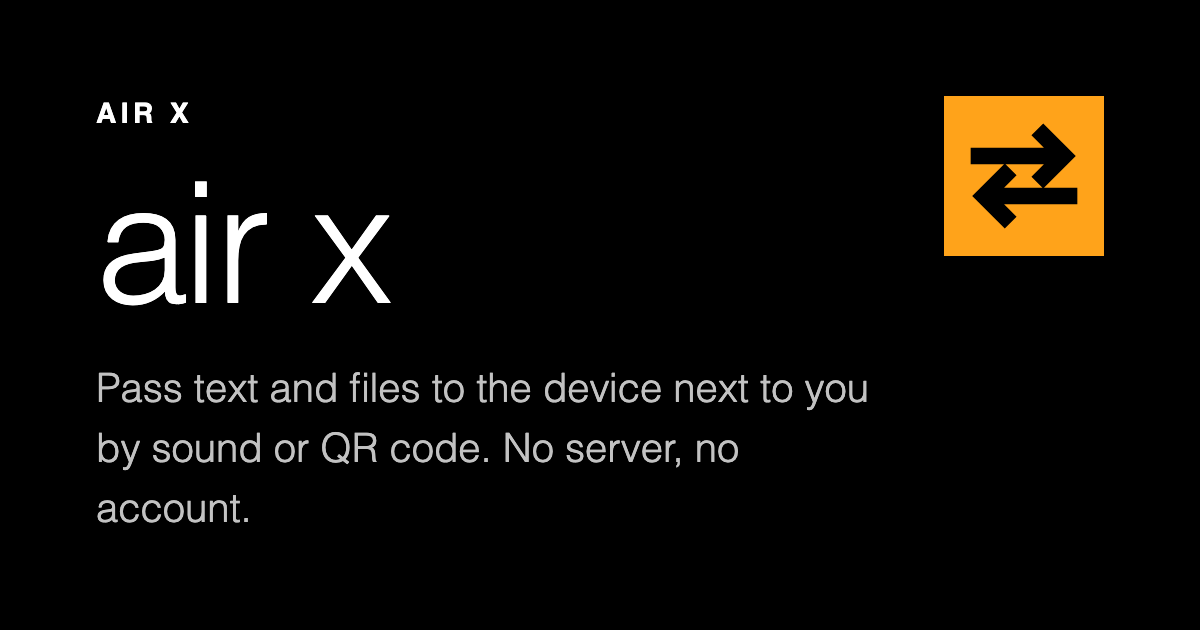
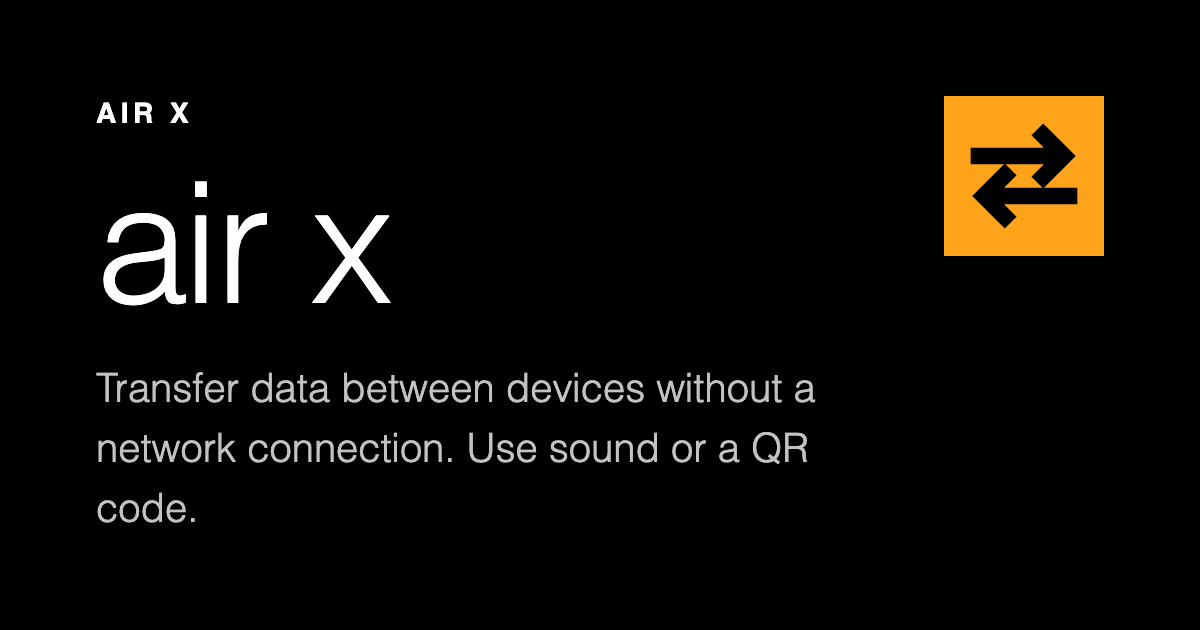
Make the copy consistent: sentence case, no all caps, plainer progress words

Changed region(s): [[0.0617, 0.573, 0.74, 0.754], [0.0925, 0.7841, 0.2158, 0.8444]]

diff --git a/static/diag.html b/static/diag.html
@@ -6,7 +6,7 @@
     <meta name="color-scheme" content="dark" />
     <title>Air X</title>
     <meta name="description"
-      content="Pass text and files to the device next to you by sound or QR code. No server, no account, no network." />
+      content="Transfer data between devices without a network connection" />
     <meta name="theme-color" content="#000000" />
     <link rel="canonical" href="https://jakeave.github.io/air-x/" />
     <link rel="icon" href="./favicon.svg" type="image/svg+xml" />
@@ -16,7 +16,7 @@
     <meta property="og:site_name" content="Air X" />
     <meta property="og:title" content="Air X" />
     <meta property="og:description"
-      content="Pass text and files to the device next to you by sound or QR code. No server, no account, no network." />
+      content="Transfer data between devices without a network connection" />
     <meta property="og:url" content="https://jakeave.github.io/air-x/" />
     <meta property="og:image"
       content="https://jakeave.github.io/air-x/og.png" />
@@ -32,8 +32,8 @@
       <section id="screen-home" class="screen">
         <header class="strip"><span class="app">Air X</span></header>
         <h1>air x</h1>
-        <p class="lede">Pass text and files to the device next to you by sound
-          or QR code. No server, no account.</p>
+        <p
+          class="lede">Transfer data between devices without a network connection. Use sound or a QR code.</p>
         <nav class="tiles">
           <a class="tile" href="#send">
             <svg viewBox="0 0 24 24" aria-hidden="true">
@@ -66,14 +66,14 @@
           <fieldset class="choices">
             <legend>Send by</legend>
             <label><input type="radio" name="send-by" value="qr" checked /> QR code</label>
-            <label><input type="radio" name="send-by" value="sound" /> sound</label>
+            <label><input type="radio" name="send-by" value="sound" /> Sound</label>
           </fieldset>
           <p id="send-estimate" class="muted">Nothing to send yet</p>
           <hr />
           <details class="advanced">
-            <summary>advanced</summary>
+            <summary>Advanced</summary>
             <div class="stack">
-              <h2>qr code</h2>
+              <h2>QR code</h2>
               <div class="row">
                 <label>Packets per code
                   <input id="packets-per-code" type="number" inputmode="numeric" min="1" step="1" value="4" />
@@ -84,28 +84,28 @@
               </div>
               <label>Error correction
                 <select id="ecc">
-                  <option value="low">low</option>
-                  <option value="medium" selected>medium</option>
-                  <option value="quartile">quartile</option>
-                  <option value="high">high</option>
+                  <option value="low">Low</option>
+                  <option value="medium" selected>Medium</option>
+                  <option value="quartile">Quartile</option>
+                  <option value="high">High</option>
                 </select>
               </label>
               <label class="switch">Adapt rate to acks
                 <input id="adapt-rate" type="checkbox" checked />
                 <span class="state"></span>
               </label>
-              <h2>sound</h2>
+              <h2>Sound</h2>
               <label>Protocol
                 <select id="protocol">
-                  <option value="fastest">fastest</option>
-                  <option value="fast">fast</option>
-                  <option value="normal">normal</option>
-                  <option value="ultrasound-fastest">ultrasound fastest</option>
-                  <option value="ultrasound-fast">ultrasound fast</option>
-                  <option value="ultrasound-normal">ultrasound normal</option>
-                  <option value="quiet-audible">quiet audible (GMSK)</option>
-                  <option value="quiet-audible-7k">quiet audible 7k (OFDM)</option>
-                  <option value="quiet-ultrasound-3600">quiet ultrasound 3600 (OFDM)</option>
+                  <option value="fastest">Fastest</option>
+                  <option value="fast">Fast</option>
+                  <option value="normal">Normal</option>
+                  <option value="ultrasound-fastest">Ultrasound fastest</option>
+                  <option value="ultrasound-fast">Ultrasound fast</option>
+                  <option value="ultrasound-normal">Ultrasound normal</option>
+                  <option value="quiet-audible">Quiet audible (GMSK)</option>
+                  <option value="quiet-audible-7k">Quiet audible 7k (OFDM)</option>
+                  <option value="quiet-ultrasound-3600">Quiet ultrasound 3600 (OFDM)</option>
                 </select>
               </label>
               <div class="row">
@@ -141,7 +141,7 @@
           </label>
           <hr />
           <details class="advanced">
-            <summary>advanced</summary>
+            <summary>Advanced</summary>
             <div class="row">
               <label>Scan max edge
                 <input id="scan-max-edge" type="number" inputmode="numeric" min="320" step="160" value="1280" />
@@ -172,7 +172,7 @@
       </section>
 
       <details class="log">
-        <summary>log</summary>
+        <summary>Log</summary>
         <pre id="log"></pre>
       </details>
     </main>

diff --git a/src/diag.ts b/src/diag.ts
@@ -371,7 +371,7 @@ sendButton.addEventListener("click", async () => {
     try {
       await sound.listen();
     } catch (err) {
-      log(`send: microphone unavailable, DONE will not be heard (${err})`);
+      log(`send: microphone unavailable, cannot confirm delivery (${err})`);
     }
     sound.protocol = protocol();
     qr.ecc = eccSelect.value as QrEcc;
@@ -408,7 +408,7 @@ sendButton.addEventListener("click", async () => {
     log(
       `send: ${items.length} item(s), ${bundle.length} bytes` +
         (by === "qr"
-          ? `, qr ${packetsPerCode}/code @ ${fps} fps ${qr.ecc}${
+          ? `, QR code ${packetsPerCode}/code @ ${fps} fps ${qr.ecc}${
             adaptRateToggle.checked ? ", adaptive" : ""
           }`
           : `, sound ${sound.protocol} listenEvery ${listenEvery} window ${windowMs} ms`),
@@ -468,14 +468,14 @@ sendButton.addEventListener("click", async () => {
     const elapsed = seconds(performance.now() - start);
     log(
       result === "done"
-        ? `send: DONE heard after ${elapsed}`
+        ? `send: done heard after ${elapsed}`
         : `send: stopped after ${elapsed}`,
     );
     if (result === "done") {
       stopTicker();
       stopTicker = undefined;
       $("send-grid").hidden = true;
-      show("send-time", `${elapsed} · DONE heard`);
+      show("send-time", `${elapsed} · Delivered`);
     }
   } catch (err) {
     log(`send failed: ${err}`);
@@ -707,7 +707,7 @@ listenButton.addEventListener("click", async () => {
         ackEvery ? `${ackEvery} symbols` : "never"
       }`,
     );
-    let counts = "sound 0, qr 0, rejected 0";
+    let counts = "sound 0, QR code 0, rejected 0";
     let shown: number | undefined;
     const done = await receiveBundle({
       sound,
@@ -732,7 +732,8 @@ listenButton.addEventListener("click", async () => {
           transfers,
         },
       ) => {
-        counts = `sound ${soundHeard}, qr ${qrHeard}, rejected ${rejected}`;
+        counts =
+          `sound ${soundHeard}, QR code ${qrHeard}, rejected ${rejected}`;
         const t = transfers.reduce(
           (best, t) => t.resolved > best.resolved ? t : best,
           transfers[0],
@@ -764,9 +765,12 @@ listenButton.addEventListener("click", async () => {
       onDone: (transferId) => {
         stopTicker?.();
         stopTicker = undefined;
-        show("rx-time", `${seconds(performance.now() - start)} · DONE sent`);
+        show(
+          "rx-time",
+          `${seconds(performance.now() - start)} · Confirmation sent`,
+        );
         log(
-          `receive: DONE sent for ${transferId} after ${
+          `receive: done sent for ${transferId} after ${
             seconds(performance.now() - start)
           }`,
         );

diff --git a/scripts/og.ts b/scripts/og.ts
@@ -22,7 +22,7 @@ const card = `<!DOCTYPE html><meta charset="utf-8"><style>
 ${mark}
 <span class="app">Air X</span>
 <h1>air x</h1>
-<p>Pass text and files to the device next to you by sound or QR code. No server, no account.</p>`;
+<p>Transfer data between devices without a network connection. Use sound or a QR code.</p>`;
 
 const browser = await chromium.launch();
 const page = await browser.newPage({ viewport: { width: 1200, height: 630 } });

diff --git a/static/styles.css b/static/styles.css
@@ -88,8 +88,6 @@ main {
 .app {
   font-size: 0.9375rem;
   font-weight: 600;
-  letter-spacing: 0.16em;
-  text-transform: uppercase;
 }
 
 h1 {

diff --git a/.claude/skills/air-x-style/SKILL.md b/.claude/skills/air-x-style/SKILL.md
@@ -49,20 +49,20 @@ Open Sans, self-hosted variable file at `static/fonts/open-sans.woff2` (weights
 300 to 800, OFL). Fallback stack: `"Segoe UI", "Segoe WP", system-ui`. Root is
 16px; everything else is rem.
 
-| Role                                             | Size                                      | Weight               | Case                                           |
-| ------------------------------------------------ | ----------------------------------------- | -------------------- | ---------------------------------------------- |
-| App title (`.app`)                               | 0.9375rem                                 | 600, tracking 0.16em | UPPERCASE                                      |
-| Page title (`h1`)                                | 4rem, line-height 0.95, tracking -0.025em | 300                  | lowercase, one word: `send`, `sending`, `sent` |
-| Group heading (`h2`), progress count             | 1.5rem                                    | 300                  | lowercase                                      |
-| Controls: button text                            | 1.25rem                                   | 600                  | Sentence case                                  |
-| Inputs, radio and switch labels, lede, item text | 1.125rem                                  | 400 (lede 300)       | Sentence case                                  |
-| Body, links, muted lines                         | 1rem                                      | 400                  | Sentence case                                  |
-| Field labels, item meta                          | 0.875rem                                  | 400                  | Sentence case                                  |
+| Role                                             | Size                                      | Weight         | Case                                                        |
+| ------------------------------------------------ | ----------------------------------------- | -------------- | ----------------------------------------------------------- |
+| App title (`.app`)                               | 0.9375rem                                 | 600            | Sentence case: `Air X`                                      |
+| Page title (`h1`)                                | 4rem, line-height 0.95, tracking -0.025em | 300            | lowercase, one word: `send`, `sending`, `sent`              |
+| Group heading (`h2`), progress count             | 1.5rem                                    | 300            | Sentence case for group headings; progress count as written |
+| Controls: button text                            | 1.25rem                                   | 600            | Sentence case                                               |
+| Inputs, radio and switch labels, lede, item text | 1.125rem                                  | 400 (lede 300) | Sentence case                                               |
+| Body, links, muted lines                         | 1rem                                      | 400            | Sentence case                                               |
+| Field labels, item meta                          | 0.875rem                                  | 400            | Sentence case                                               |
 
-Lowercase is for the big light words: page titles, tiles, group headings,
-expander summaries. Anything a person reads as an instruction or a value is
-sentence case with real capitals (`QR code`, `Start over`,
-`Scan QR with
+Lowercase is for the big light words only: page titles, tiles and the home
+wordmark `air x`. No all caps anywhere. Group headings, expander summaries, and
+anything a person reads as an instruction or a value is sentence case with real
+capitals (`QR code`, `Start over`, `Scan QR with
 camera`).
 
 ## Spacing
